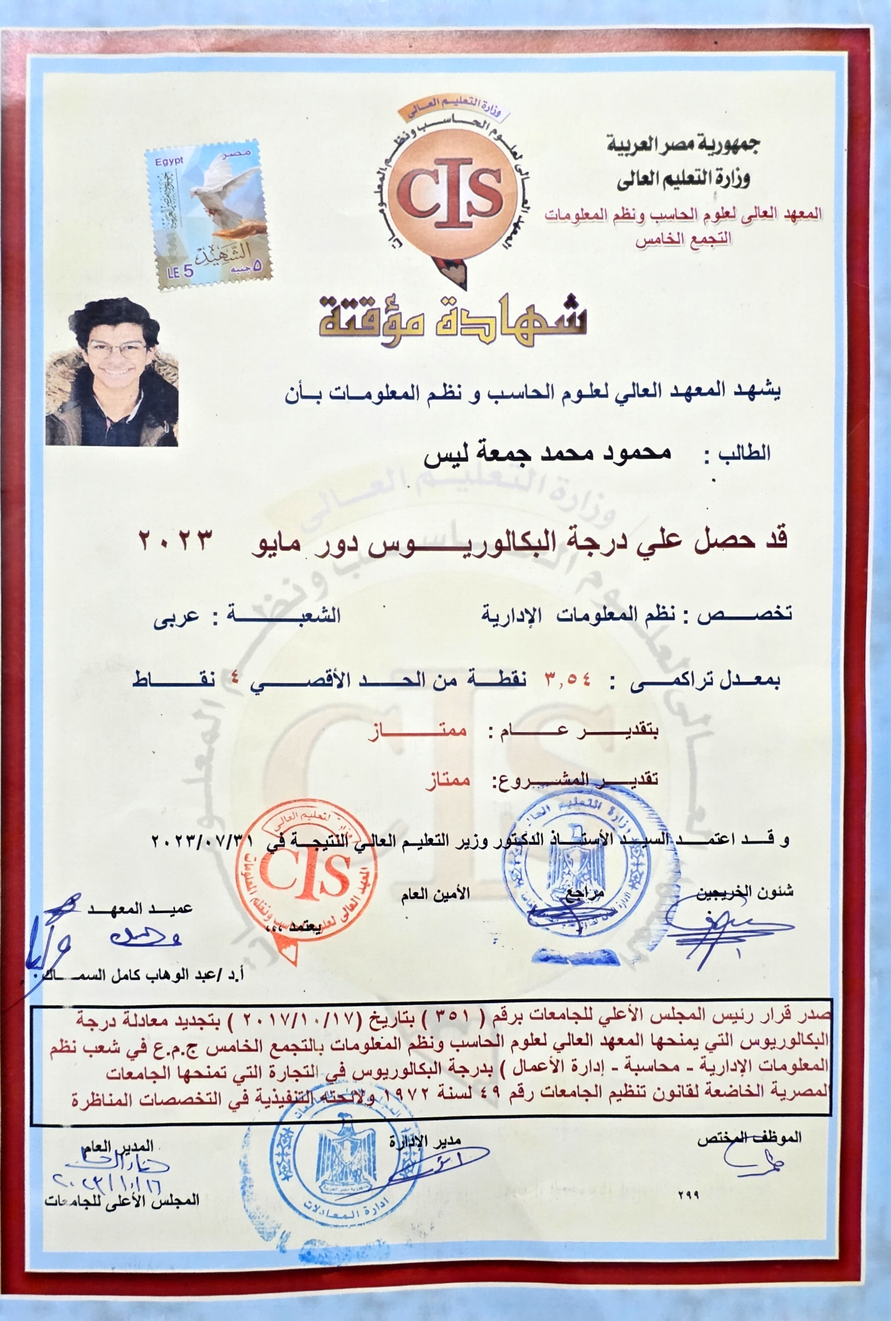
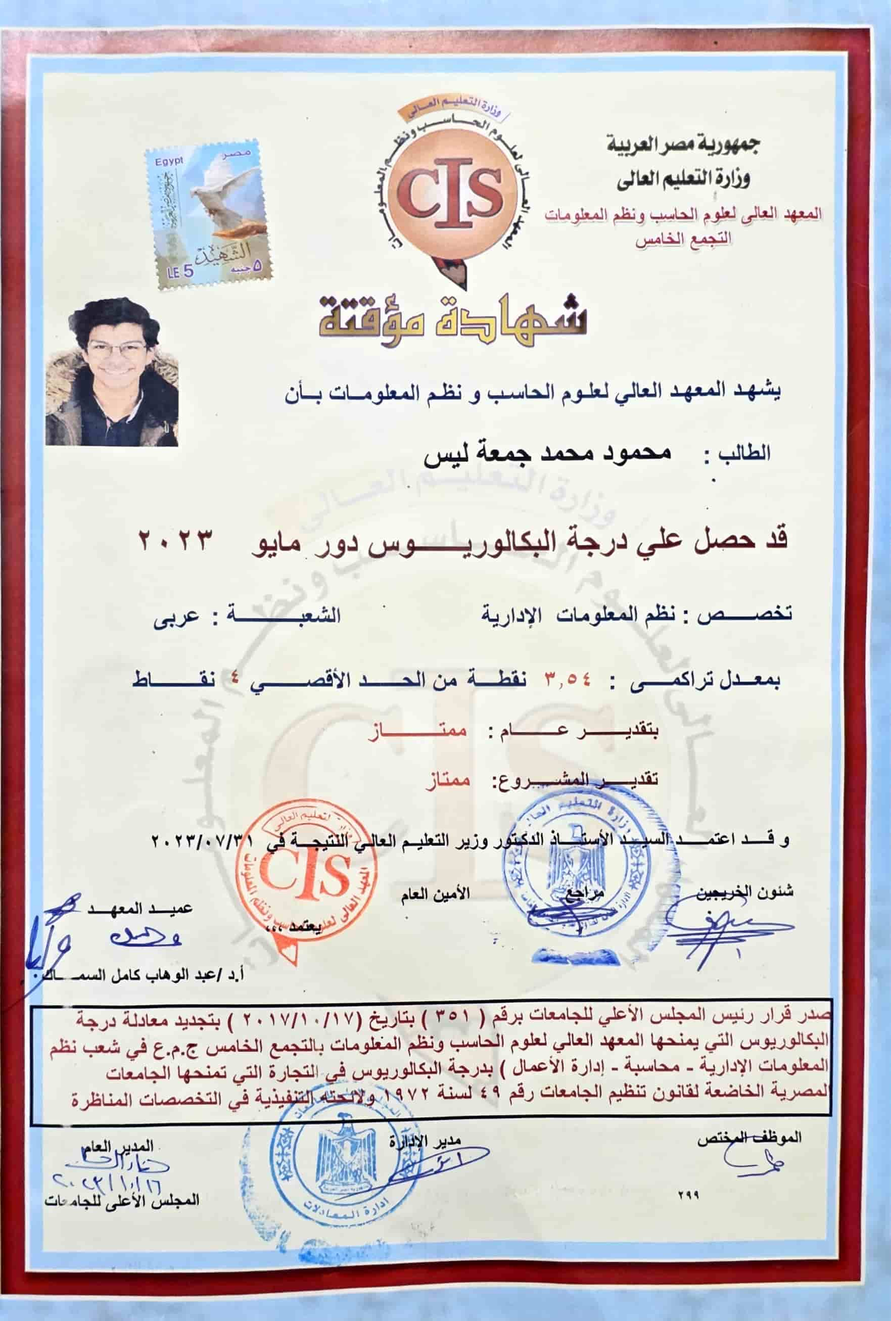
optimize certificates images

diff --git a/src/data/educationData.ts b/src/data/educationData.ts
@@ -97,7 +97,7 @@ export const internships: InternshipItem[] = [
       "Learned server-side fundamentals, database management, and cloud deployment procedures.",
     ],
     skills: ["JavaScript", "HTML5", "CSS3", "Git"],
-    certificateUrl: "/certificates/FWD certificate.png",
+    certificateUrl: "/certificates/FWD certificate.jpg",
     links: {
       linkedin: "https://www.linkedin.com/company/egyptfwd/",
     },
